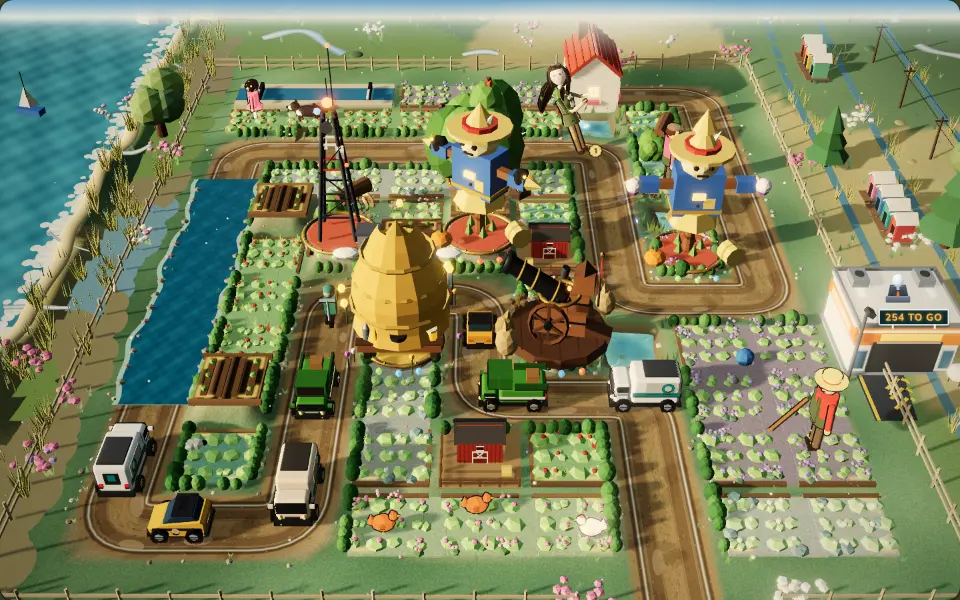
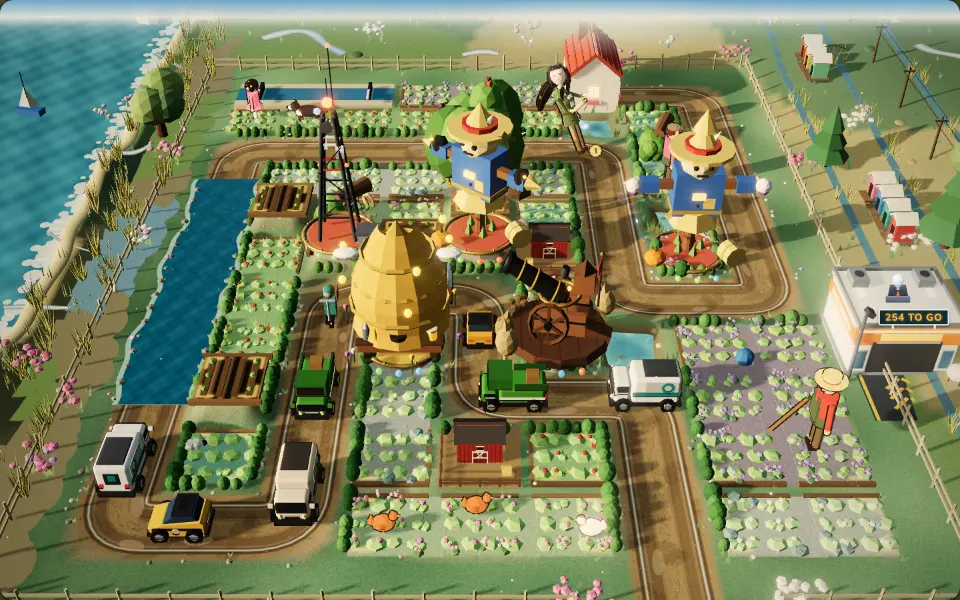
Hedgerow 2D convoy: vehicles keep off the depot's plate at D (CI E2E red on 1d585e26/63ce086e, hedgerow-convoy-gap desktop: a lorry drawn 20 px onto it). The lane's drawn start tests the field's longest and widest body along and across the lane, not a 0.42-cell disc; a bend never eases a vehicle bac
Claude-Session: https://claude.ai/code/session_01SimvMQV6ULZQGPtHBaRjup

diff --git a/games/hedgerow/src/render.ts b/games/hedgerow/src/render.ts
@@ -2274,6 +2274,8 @@ export class Renderer {
   private chipCount = new Map<ConvoyColumn, number>();
   /** Plan item 45: this frame's convoy layout (convoy.ts), laid out once per draw. */
   private lay: Convoy = noConvoy();
+  /** Plan item 707: where each lane's drawn vehicles start, clear of the depot's plate (this frame's). */
+  private laneStart: (lane: 1 | undefined) => number = () => 0;
   /** The columns a swarm badge rode last frame (their own +N chip stands down). */
   private badged = new Set<ConvoyColumn>();
   private layOut(game: Game, X: (v: number) => number, Y: (v: number) => number, s: number): Convoy {
@@ -2283,17 +2285,35 @@ export class Renderer {
     const level = game.level;
     // Plan item 707: a vehicle is drawn on the lane once its body is clear of the depot's plate (it ran into the
     // depot, depot and queue merging); before that it waits in the depot's column, counted on its chip.
+    // The test body is the longest and the widest on the field, along and across the lane (a 0.42-cell disc let a
+    // lorry poke 20 px onto the plate at D, CI red on 46fc3312), centred where vehicleBox centres it.
+    let len = s * 0.62;
+    let wid = s * 0.62;
+    for (const e of game.enemies) {
+      const top = FLEET_TOP[e.kind];
+      const k = s * enemyScale(e.kind);
+      len = Math.max(len, top ? top.len * k : s * 0.62 * enemyScale(e.kind));
+      wid = Math.max(wid, top ? top.wid * k : s * 0.62 * enemyScale(e.kind));
+    }
+    const starts = new Map<1 | undefined, number>();
     const start = (lane: 1 | undefined): number => {
       if (!this.depotBoxes.length) return 0;
-      const r = s * 0.42;
+      const known = starts.get(lane);
+      if (known !== undefined) return known;
+      let at = DEPOT_CLEAR_MAX;
       for (let d = 0; d < DEPOT_CLEAR_MAX; d += 0.05) {
         const p = enemyPoint(level, { dist: d, ...(lane ? { lane } : {}) });
         const cx = X(p.x);
-        const cy = Y(p.y + 0.2) - s * 0.25;
-        if (!this.depotBoxes.some((b) => cx + r > b.x && cx - r < b.x + b.w && cy + r > b.y && cy - r < b.y + b.h)) return d;
+        const cy = Y(p.y + 0.2) - s * 0.2;
+        const vert = runOf(level, { dist: d, lane: lane ?? null }) !== undefined;
+        const hw = (vert ? wid : len) / 2;
+        const hh = (vert ? len : wid) / 2;
+        if (!this.depotBoxes.some((b) => cx + hw > b.x + 1 && cx - hw < b.x + b.w - 1 && cy + hh > b.y + 1 && cy - hh < b.y + b.h - 1)) { at = d; break; }
       }
-      return DEPOT_CLEAR_MAX;
+      starts.set(lane, at);
+      return at;
     };
+    this.laneStart = start;
     this.lay = layOutField(game.enemies, (k) => Math.max(drawnLen(k as EnemyKind) * ROAD_GAP, drawnLen(k as EnemyKind) + gap), start);
     this.chipCount.clear();
     return this.lay;
@@ -2332,10 +2352,28 @@ export class Renderer {
       for (const e of on) {
         const sl = this.lay.slots.get(e.id)!;
         const d0 = sl.dist;
+        // Never eased back onto the depot's plate (behind the lane's drawn start).
+        const floor = Math.min(d0, Math.max(0, this.laneStart(lane), d0 - 1));
         let box = this.vehicleBox(level, e, X, Y, s);
-        while ((ahead.slice(-2).some((b) => hit(box, b)) || other.some((b) => hit(box, b))) && sl.dist > Math.max(0, d0 - 1)) {
-          sl.dist = Math.max(0, sl.dist - 0.04);
+        while ((ahead.slice(-2).some((b) => hit(box, b)) || other.some((b) => hit(box, b))) && sl.dist > floor) {
+          sl.dist = Math.max(floor, sl.dist - 0.04);
           box = this.vehicleBox(level, e, X, Y, s);
+        }
+        const on = (b: Rect) => box.x < b.x + b.w - 1 && box.x + box.w > b.x + 1 && box.y < b.y + b.h - 1 && box.y + box.h > b.y + 1;
+        if (sl.dist <= this.laneStart(lane) + 1e-6 && this.laneStart(lane) > 0 && (ahead.slice(-2).some(on) || other.some(on))) {
+          // Eased back to the depot's mouth and still on the one ahead: it waits at the depot, counted on the
+          // chip, rather than being drawn over that one (or the plate).
+          this.lay.slots.delete(e.id);
+          let col = this.lay.columns.find((c) => (c.lane ?? undefined) === lane && c.at === undefined);
+          if (!col) {
+            col = { ...(lane ? { lane } : {}), dist: e.dist, count: 0 };
+            this.lay.columns.push(col);
+          }
+          this.lay.inColumn.set(e.id, col.count);
+          this.lay.columnOf.set(e.id, col);
+          col.count++;
+          col.dist = Math.min(col.dist, e.dist);
+          continue;
         }
         ahead.push(box);
         if (!lane) first.push(box);
